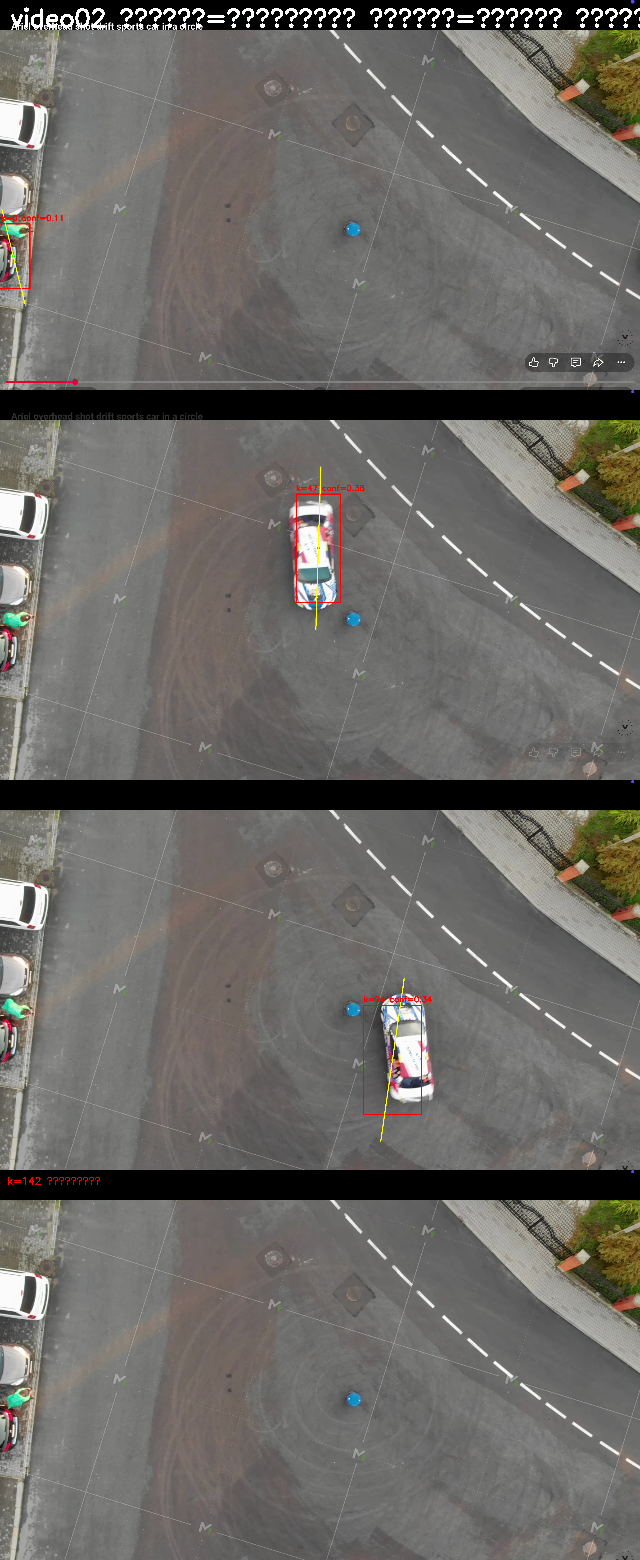
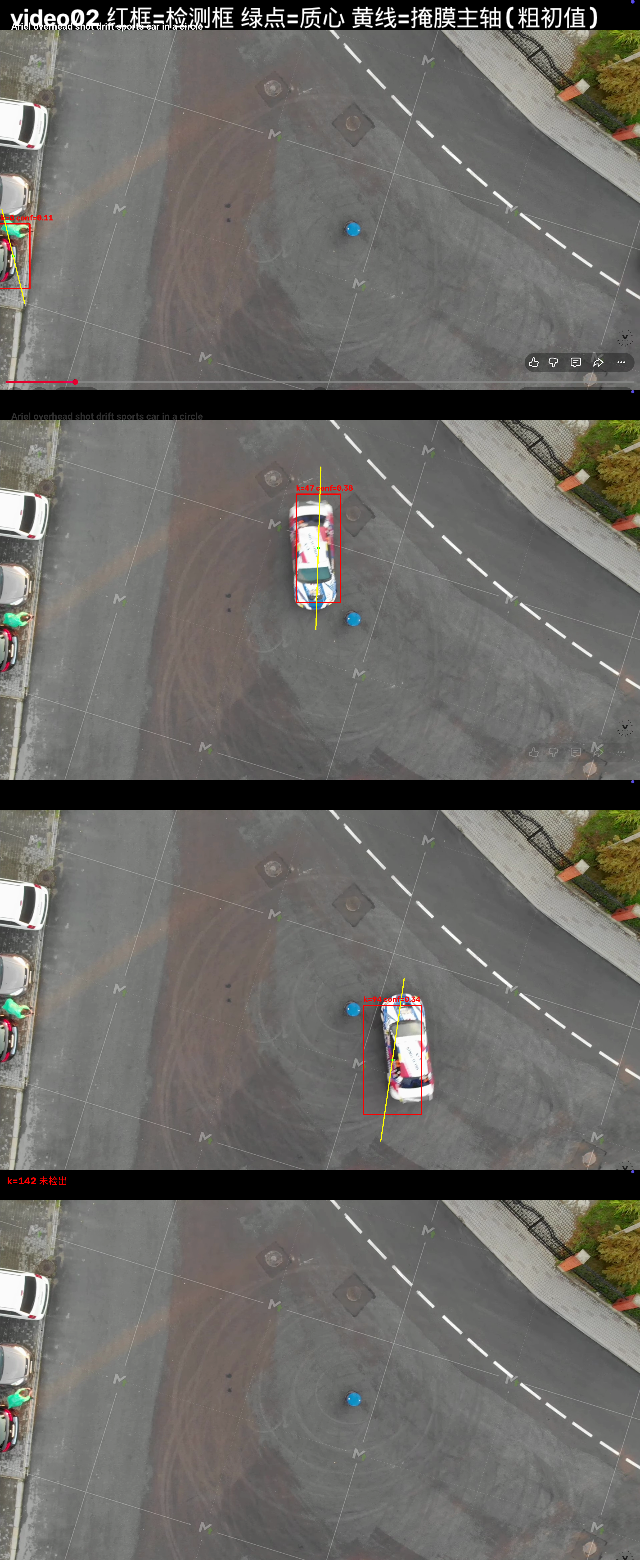
feat(L4): video09 试标完成；修复试标暴露的轴来源、轴残差与报告范围问题
- pipeline 改用 load_annotation_detail 并传 annotated 掩膜，axis_src 不再全落成 interp
- plot_kinematics 标题按实际轴来源生成，β 面板单独标出人工帧
- 报告的轴离散列改为「去掉平滑趋势后的残差」（普通/圆 std 都被真实转动主导）
- 局部运行改写到 M1_报告_局部.md，不再覆盖全量报告；素材缺失在报告 §7 列出
- 记录 PCA 基线与人工标注的系统性偏差：Δβ 中位 +7.15°、方向一致

Changed region(s): [[0.0312, 0.0, 1.0, 0.0308]]

diff --git a/src/pipeline.py b/src/pipeline.py
@@ -51,8 +51,18 @@ def _setup_matplotlib():
 def plot_kinematics(name: str, res: P.PreprocessResult, kin: dict, path: Path) -> None:
     plt = _setup_matplotlib()
     fig, axes = plt.subplots(2, 2, figsize=(13, 9))
-    fig.suptitle(f"{name}  运动学曲线（背景建模分支，无人工标注）", fontsize=13)
     t = np.array(res.t)
+
+    # 轴来源逐帧不同，图上的说法必须跟着实际来源走，
+    # 不能写死成「无人工标注 / PCA 基线」—— 否则标完的素材会被误读成占位结果。
+    kind = np.asarray(kin.get("axis_kind", np.zeros(res.n, dtype=int)))
+    n_ann = int((kind == 1).sum())
+    n_int = int((kind == 2).sum())
+    if n_ann or n_int:
+        src_txt = f"车身轴：人工标注 {n_ann} 帧 + 插值 {n_int} 帧"
+    else:
+        src_txt = "车身轴：掩膜 PCA 基线（占位，非结果）"
+    fig.suptitle(f"{name}  运动学曲线（背景建模分支，{src_txt}）", fontsize=13)
 
     ax = axes[0][0]
     sc = ax.scatter(kin["cx"], kin["cy"], c=t, s=6, cmap="viridis")
@@ -87,11 +97,19 @@ def plot_kinematics(name: str, res: P.PreprocessResult, kin: dict, path: Path) -
 
     ax = axes[1][1]
     ax.axhline(0, color="gray", lw=0.8, ls="--")
-    ax.plot(t, kin["beta"], lw=1.2, color="#993C1D")
+    beta = np.asarray(kin["beta"], dtype=float)
+    ax.plot(t, beta, lw=1.2, color="#993C1D", label="β 曲线")
+    # 人工标的帧单独点出来：插值段是「匀速转动」假设推出来的，不能和目视观测平权
+    if n_ann:
+        m = (kind == 1) & np.isfinite(beta)
+        ax.plot(t[m], beta[m], "o", ms=4.5, mfc="none", mec="#185FA5", mew=1.2,
+                ls="none", label=f"人工标注帧（{int(m.sum())}）")
+        ax.legend(fontsize=9, loc="best")
     ax.set_xlabel("t / s")
     ax.set_ylabel("β / 度")
     ax.set_ylim(-90, 90)
-    ax.set_title("滑移角 β（车身轴用掩膜 PCA 基线，噪声大，仅供占位）", fontsize=11)
+    ax.set_title("滑移角 β" + ("" if n_ann else "（车身轴用掩膜 PCA 基线，噪声大，仅供占位）"),
+                 fontsize=11)
     ax.grid(alpha=0.25)
 
     fig.tight_layout()
@@ -178,10 +196,17 @@ def process_one(spec: C.VideoSpec, stage: str = "all", force: bool = False,
     if stage == "detect":
         return rec
 
-    body = K.load_annotation(spec.name, res.n)
-    kin = K.compute(dets, res, body_axis=body)
+    # 必须用 load_annotation_detail 并把 annotated 掩膜一起传下去：
+    # 只传角度序列的话 compute() 无从区分「人工标的」和「插值补的」，
+    # axis_kind 会全部落成 2（插值），CSV 的 axis_src 列就成了假审计。
+    ann = K.load_annotation_detail(spec.name, res.n)
+    body = ann["axis"] if ann else None
+    bmask = ann["annotated"] if ann else None
+    kin = K.compute(dets, res, body_axis=body, body_mask=bmask)
     rec["kin"] = kin
-    rec["annotated"] = body is not None
+    rec["annotated"] = ann is not None
+    rec["annot_count"] = ann["count"] if ann else 0
+    rec["axis_stats"] = K.annotate_stats(kin)
 
     K.write_series_csv(C.TRACK_DIR / f"{spec.name}.csv", res, kin)
     if kin["s"]["covered"] >= 5:
@@ -193,8 +218,18 @@ def process_one(spec: C.VideoSpec, stage: str = "all", force: bool = False,
 # ---------------------------------------------------------------------------
 # 汇总报告
 # ---------------------------------------------------------------------------
-def write_report(records: list[dict]) -> Path:
+def write_report(records: list[dict], partial: bool = False,
+                 missing: list[tuple[str, str]] | None = None) -> Path:
     lines = ["# M1 阶段报告：预处理 + 双分支检测 + 运动方向", ""]
+    if partial:
+        # 跑单个素材时如果照原样写回 M1_报告.md，会把全量汇总冲成只有一行，
+        # 下次打开的人会以为其它素材消失了。局部结果单独成文并显式声明范围。
+        names = "、".join(f"`{r['name']}`" for r in records)
+        lines.append(f"> ⚠ **本报告只覆盖 {len(records)} 段素材（{names}），是局部运行的结果，"
+                     "不是全量汇总。**")
+        lines.append("> 全量报告请跑 `python -m src.pipeline --all-static`；"
+                     "本次结果写在本文件以免覆盖它。")
+        lines.append("")
     lines.append("由 `python -m src.pipeline` 自动生成。本阶段**不需要任何人工标注**，")
     lines.append("产出的是速度与航向曲线，用来先暴露素材本身的跟踪与比例尺问题。")
     lines.append("")
@@ -254,26 +289,46 @@ def write_report(records: list[dict]) -> Path:
 
     lines.append("## 3. 逐素材运动学摘要")
     lines.append("")
-    lines.append("| 素材 | 有效段 | 内部最大缺口 | 位置离群剔除 | 速度 中位/p90 (px/s) | 航向覆盖 | 主轴 std | 标注 |")
+    lines.append("| 素材 | 有效段 | 内部最大缺口 | 位置离群剔除 | 速度 中位/p90 (px/s) | 航向覆盖 | 轴残差 | 标注 |")
     lines.append("|---|---|---|---|---|---|---|---|")
-    for r in records:
-        kin = r.get("kin")
+    for rec in records:
+        kin = rec.get("kin")
         if not kin:
             continue
         s = kin["s"]
         sp = kin["speed"][~np.isnan(kin["speed"])]
-        ax = kin["axis"][~np.isnan(kin["axis"])]
         sp_s = f"{np.median(sp):.0f} / {np.percentile(sp, 90):.0f}" if len(sp) else "-"
-        ax_s = f"{np.std(ax):.0f}°" if len(ax) else "-"
+        # 车身轴在整段里会真实转过几十度，普通 std / 圆 std 都被真实转动主导，
+        # 测不出噪声。用"去掉平滑趋势后的残差散布"才能把 PCA 基线与人工标注拉开。
+        resid = K.axis_residual_std(kin["axis"], kin["dt"])
+        ax_s = f"{resid:.1f}°" if resid is not None else "-"
         span = f"k {s['valid_from']}~{s['valid_to']}"
-        out_s = (f"{kin['n_outliers']}（{kin['n_outliers'] / max(1, r.get('n_det', 1)) * 100:.0f}%）"
+        out_s = (f"{kin['n_outliers']}（{kin['n_outliers'] / max(1, rec.get('n_det', 1)) * 100:.0f}%）"
                  if kin.get("n_outliers") else "0")
-        lines.append(f"| {r['name']} | {span} | {s['max_gap']} 帧 | {out_s} | {sp_s} | "
-                     f"{s['covered']}/{s['n']} | {ax_s} | "
-                     f"{'有' if r.get('annotated') else '无（用 PCA 基线）'} |")
+        st = rec.get("axis_stats") or {}
+        if st.get("annotated"):
+            ann_s = f"{rec.get('annot_count', 0)} 帧人工"
+            if st.get("interp"):
+                ann_s += f" + {st['interp']} 插值"
+        else:
+            ann_s = "无（用 PCA 基线）"
+        lines.append(f"| {rec['name']} | {span} | {s['max_gap']} 帧 | {out_s} | {sp_s} | "
+                     f"{s['covered']}/{s['n']} | {ax_s} | {ann_s} |")
     lines.append("")
     lines.append("> 「位置离群剔除」= 滑动窗口中值法判为偏离主轨迹、已置空并插值补回的帧数。"
                  "用于清掉车被画面边缘截断、掩膜临时并进阴影/杂物造成的假跳点。")
+    lines.append(">")
+    lines.append("> 「轴残差」= 车身轴**去掉平滑趋势后**的残差标准差（0.5 s 窗口，在倍角域做平滑）。"
+                 "**不能用普通 std 或圆 std 代替**：车身轴在一段素材里会真实转过几十度，"
+                 "那两种度量都被真实转动主导 —— 实测 video09 的 PCA 基线与人工标注圆 std "
+                 "是 12.1° vs 11.8°（几乎一样），但两者的 β 中位相差 7.15° 且方向一致，"
+                 "是**系统性偏差**而非随机噪声。")
+    lines.append(">")
+    lines.append("> 该列只量「抖动」：video09 标注前的 PCA 基线为 3.8°，标注后为 1.6°。"
+                 "拆开看，**人工帧残差 1.83°**（≈ 目视点两下的精度），"
+                 "插值帧仅 0.13° —— 但插值段平滑是**按构造成立**的（倍角线性插值本身连续），"
+                 "**不能反过来当作「插值很准」的证据**。所以该列衡量的是「轴序列抖不抖」，"
+                 "不等于人工点选精度，更不等于 β 的精度。")
     lines.append("")
 
     lines.append("## 4. 已知局限（M1 未解决）")
@@ -294,7 +349,13 @@ def write_report(records: list[dict]) -> Path:
     lines.append("")
     lines.append("## 5. 需要人工介入的事")
     lines.append("")
-    lines.append("1. **车身朝向 ψ_body 必须人工标注。** 本阶段的 β 曲线用的是掩膜 PCA 主轴，")
+    done = [r for r in records if r.get("annot_count")]
+    if done:
+        lines.append("标注进度：" + "、".join(
+            f"`{r['name']}` {r['annot_count']} 帧" for r in done)
+            + "（逐帧来源见上表「标注」列与 `outputs/tracks/<素材名>.csv` 的 `axis_src`）。")
+        lines.append("")
+    lines.append("1. **车身朝向 ψ_body 必须人工标注。** 尚未标注的素材，其 β 曲线用的是掩膜 PCA 主轴，")
     lines.append("   而车辆阴影会并进掩膜，使主轴标准差普遍偏大，**不可当结果使用**。")
     lines.append("   标注文件格式见 `outputs/annotations/README.md`。")
     lines.append("2. **比例尺尚未标定。** 速度目前是 px/s。要换算成 m/s，需要地面已知尺寸"
@@ -308,7 +369,18 @@ def write_report(records: list[dict]) -> Path:
         ws = r["preprocess"].warnings
         if ws:
             lines.append(f"- **{r['name']}**：" + "；".join(ws))
-    path = C.REPORT_DIR / "M1_报告.md"
+    lines.append("")
+    if missing:
+        lines.append("## 7. 本次未跑到的素材")
+        lines.append("")
+        lines.append("以下素材在本次运行时**源文件不在 `drift/`**，表中因此没有它们的行。")
+        lines.append("它们此前生成的 `outputs/tracks/*.csv` 与曲线图仍在磁盘上，"
+                     "但**可能已与最新代码不一致**，不要当作本次结果引用。")
+        lines.append("")
+        for n, why in missing:
+            lines.append(f"- **{n}**：{why}")
+        lines.append("")
+    path = C.REPORT_DIR / ("M1_报告_局部.md" if partial else "M1_报告.md")
     path.write_text("\n".join(lines) + "\n", encoding="utf-8")
     return path
 
@@ -373,10 +445,17 @@ def main(argv: list[str] | None = None) -> int:
     print(f"处理 {len(specs)} 段素材，阶段：{args.stage}")
     print("=" * 100)
     records = []
+    missing = []
     for spec in specs:
         print(f"\n[{spec.name}] role={spec.role} 分支={spec.detector}")
         try:
             rec = process_one(spec, stage=args.stage, force=args.force, verbose=args.verbose)
+        except FileNotFoundError as e:
+            # 素材文件不在（改名/误删）时别静默跳过：报告里要留下痕迹，
+            # 否则表格少一行没人会发现，旧产物还会被误当成最新结果。
+            print(f"  [缺失] {e}")
+            missing.append((spec.name, str(e)))
+            continue
         except Exception as e:
             print(f"  失败：{type(e).__name__}: {e}")
             continue
@@ -401,8 +480,12 @@ def main(argv: list[str] | None = None) -> int:
                           f"（{np.median(sp) / kin['size_px']:.2f} 车长/秒）")
 
     if records and args.stage == "all":
-        rp = write_report(records)
-        print(f"\n汇总报告：{rp.relative_to(C.ROOT)}")
+        full = {s.name for s in C.active_static_videos()}
+        partial = {s.name for s in specs} != full
+        rp = write_report(records, partial=partial, missing=missing)
+        print(f"\n汇总报告：{rp.relative_to(C.ROOT)}" + ("（局部，未覆盖全量报告）" if partial else ""))
+        if missing:
+            print("未跑到的素材：" + "、".join(n for n, _ in missing))
     return 0
 
 

diff --git a/src/kinematics.py b/src/kinematics.py
@@ -118,6 +118,42 @@ def _interp_inplace(values: np.ndarray) -> np.ndarray:
     return out
 
 
+AXIS_RESID_WIN_S = 0.5
+
+
+def axis_residual_std(axis: np.ndarray, dt: float,
+                      win_s: float = AXIS_RESID_WIN_S) -> float | None:
+    """车身轴"抖不抖"：去掉平滑趋势后的残差散布（度）。
+
+    为什么不用普通 std，也不用倍角圆 std：车身轴在整段素材里会**真实转过几十度**
+    （video09 约 39°），这两种度量都被真实转动主导，测不出噪声。
+    实测 video09 的 PCA 基线与人工标注的圆 std 是 12.1° vs 11.8° —— 几乎一样，
+    但两者的 β 中位相差 7.15°、且**单向**（基线系统性高估 |β|）。
+    所以"抖不抖"必须先把趋势减掉再量。
+
+    做法：在倍角域（2θ 的 cos/sin）做滑动平均得到趋势（这样 0/180 接缝不会
+    把均值拉成 90°），再看逐帧偏离趋势多少。
+
+    实测（窗口 0.5 s，video09）：PCA 基线 3.8°，人工标注 1.6°。
+    """
+    a = np.asarray(axis, dtype=float)
+    m = np.isfinite(a)
+    if m.sum() < 5:
+        return None
+    win = max(5, int(round(win_s / dt)) | 1)
+    if win > m.sum():
+        win = m.sum() | 1
+    k = np.ones(win) / win
+    w = np.convolve(m.astype(float), k, "same")
+    z = np.radians(2.0 * a)
+    u = np.convolve(np.where(m, np.cos(z), 0.0), k, "same") / np.maximum(w, 1e-9)
+    v = np.convolve(np.where(m, np.sin(z), 0.0), k, "same") / np.maximum(w, 1e-9)
+    trend = np.degrees(np.arctan2(v, u)) / 2.0
+    r = (a - trend) % C.BODY_AXIS_MOD
+    r = np.where(r > 90.0, r - 180.0, r)
+    return float(np.std(r[m]))
+
+
 def reject_pose_outliers(x: np.ndarray, y: np.ndarray,
                          radius: int = 5, sigma: float = 4.0,
                          floor_frac: float = 0.03,

diff --git a/outputs/reports/M1_报告.md b/outputs/reports/M1_报告.md
@@ -10,11 +10,9 @@
 | video01 | 2704×1756 | 272 | 77 | 71.7% | 4.5s | 0.17% | 77 | 100% | 123×156 | 0 |
 | video02 | 2704×1756 | 390 | 143 | 63.3% | 6.8s | 0.46% | 139 | 97% | 201×194 | 4 |
 | video03 | 2704×1756 | 525 | 258 | 50.9% | 8.8s | 0.32% | 258 | 100% | 494×256 | 0 |
-| video07 | 1920×1080 | 42 | 38 | 9.5% | 1.6s | 0.04% | 38 | 100% | 26×48 | 0 |
 | video08 | 1920×1080 | 92 | 83 | 9.8% | 3.6s | 0.03% | 83 | 100% | 48×29 | 0 |
 | video09 | 1920×1080 | 33 | 30 | 9.1% | 1.3s | 0.21% | 30 | 100% | 159×102 | 0 |
 | video12 | 1920×1080 | 415 | 286 | 31.1% | 16.5s | 4.20% | 265 | 93% | 296×139 | 21 |
-| video15 | 1920×1080 | 101 | 98 | 3.0% | 4.0s | 0.45% | 96 | 98% | 163×153 | 2 |
 
 > 「覆盖率」= 检出帧数 / 去重后唯一帧数。「背景残留」= 中值背景扣掉车辆后仍剩的差异像素占比，阈值 3%；超过即判为相机在动。
 
@@ -32,18 +30,20 @@
 
 ## 3. 逐素材运动学摘要
 
-| 素材 | 有效段 | 内部最大缺口 | 位置离群剔除 | 速度 中位/p90 (px/s) | 航向覆盖 | 主轴 std | 标注 |
+| 素材 | 有效段 | 内部最大缺口 | 位置离群剔除 | 速度 中位/p90 (px/s) | 航向覆盖 | 轴残差 | 标注 |
 |---|---|---|---|---|---|---|---|
-| video01 | k 0~76 | 0 帧 | 1（1%） | 301 / 435 | 77/77 | 47° | 无（用 PCA 基线） |
-| video02 | k 0~140 | 2 帧 | 2（1%） | 243 / 390 | 139/143 | 51° | 无（用 PCA 基线） |
-| video03 | k 0~257 | 0 帧 | 0 | 179 / 236 | 258/258 | 73° | 无（用 PCA 基线） |
-| video07 | k 0~37 | 0 帧 | 0 | 60 / 70 | 38/38 | 4° | 无（用 PCA 基线） |
-| video08 | k 0~82 | 0 帧 | 0 | 71 / 88 | 83/83 | 66° | 无（用 PCA 基线） |
-| video09 | k 0~29 | 0 帧 | 2（7%） | 336 / 451 | 30/30 | 80° | 无（用 PCA 基线） |
-| video12 | k 0~285 | 4 帧 | 8（3%） | 56 / 775 | 265/286 | 75° | 无（用 PCA 基线） |
-| video15 | k 1~97 | 1 帧 | 12（12%） | 140 / 215 | 96/98 | 26° | 无（用 PCA 基线） |
+| video01 | k 0~76 | 0 帧 | 1（1%） | 301 / 435 | 77/77 | 4.5° | 无（用 PCA 基线） |
+| video02 | k 0~140 | 2 帧 | 2（1%） | 243 / 390 | 139/143 | 4.3° | 无（用 PCA 基线） |
+| video03 | k 0~257 | 0 帧 | 0 | 179 / 236 | 258/258 | 2.8° | 无（用 PCA 基线） |
+| video08 | k 0~82 | 0 帧 | 0 | 71 / 88 | 83/83 | 1.6° | 无（用 PCA 基线） |
+| video09 | k 0~29 | 0 帧 | 2（7%） | 336 / 451 | 30/30 | 1.6° | 20 帧人工 + 8 插值 |
+| video12 | k 0~285 | 4 帧 | 8（3%） | 56 / 775 | 265/286 | 6.2° | 无（用 PCA 基线） |
 
 > 「位置离群剔除」= 滑动窗口中值法判为偏离主轨迹、已置空并插值补回的帧数。用于清掉车被画面边缘截断、掩膜临时并进阴影/杂物造成的假跳点。
+>
+> 「轴残差」= 车身轴**去掉平滑趋势后**的残差标准差（0.5 s 窗口，在倍角域做平滑）。**不能用普通 std 或圆 std 代替**：车身轴在一段素材里会真实转过几十度，那两种度量都被真实转动主导 —— 实测 video09 的 PCA 基线与人工标注圆 std 是 12.1° vs 11.8°（几乎一样），但两者的 β 中位相差 7.15° 且方向一致，是**系统性偏差**而非随机噪声。
+>
+> 该列只量「抖动」：video09 标注前的 PCA 基线为 3.8°，标注后为 1.6°。拆开看，**人工帧残差 1.83°**（≈ 目视点两下的精度），插值帧仅 0.13° —— 但插值段平滑是**按构造成立**的（倍角线性插值本身连续），**不能反过来当作「插值很准」的证据**。所以该列衡量的是「轴序列抖不抖」，不等于人工点选精度，更不等于 β 的精度。
 
 ## 4. 已知局限（M1 未解决）
 
@@ -60,7 +60,9 @@
 
 ## 5. 需要人工介入的事
 
-1. **车身朝向 ψ_body 必须人工标注。** 本阶段的 β 曲线用的是掩膜 PCA 主轴，
+标注进度：`video09` 20 帧（逐帧来源见上表「标注」列与 `outputs/tracks/<素材名>.csv` 的 `axis_src`）。
+
+1. **车身朝向 ψ_body 必须人工标注。** 尚未标注的素材，其 β 曲线用的是掩膜 PCA 主轴，
    而车辆阴影会并进掩膜，使主轴标准差普遍偏大，**不可当结果使用**。
    标注文件格式见 `outputs/annotations/README.md`。
 2. **比例尺尚未标定。** 速度目前是 px/s。要换算成 m/s，需要地面已知尺寸（例如 video03 的靶心圆、video13/14 的轮胎痕圆环）。
@@ -72,4 +74,12 @@
 - **video02**：重复帧比例 63.3%，有效时长被压缩到 6.8s，样本量受限；裁掉黑边 (1, 25, 1, 84)
 - **video03**：重复帧比例 50.9%，有效时长被压缩到 8.8s，样本量受限；裁掉黑边 (1, 25, 1, 84)
 - **video12**：背景模型残留差异 4.20%，超过 3% 阈值，与登记的静止机位不符，请复核；重复帧比例 31.1%，有效时长被压缩到 16.5s，样本量受限
-- **video15**：裁掉黑边 (0, 36, 0, 56)
+
+## 7. 本次未跑到的素材
+
+以下素材在本次运行时**源文件不在 `drift/`**，表中因此没有它们的行。
+它们此前生成的 `outputs/tracks/*.csv` 与曲线图仍在磁盘上，但**可能已与最新代码不一致**，不要当作本次结果引用。
+
+- **video07**：找不到素材文件：video07.mov / .mp4
+- **video15**：找不到素材文件：video15.mov / .mp4
+

diff --git a/.workbuddy/memory/2026-09-23.md b/.workbuddy/memory/2026-09-23.md
@@ -137,5 +137,20 @@ CSV 列齐、覆盖物无越界、0 JS 异常。
 - `outputs/annotations/queue/*.csv` 与 `<名>.csv` 入库；
   `crops/`（约 40MB）与 `web/`（自包含 HTML）**不入库**，可由代码再生成。
 
+## 收尾复测（commit 7e172b7）
+
+标注链路提交后再走一遍冒烟，确认可用并修掉一处小瑕疵：
+
+- **队列文件前两行是 `#` 注释**，所以 `wc -l queue/*.csv` 会比实际帧数多 6+6 行。
+  别用行数当帧数核账，`--status` 报的 230 才是准的（25+50+45+20+55+35）。
+- 空集写盘会留下"只有表头"的 CSV → 改为 `write_labels` 在 `labels` 为空时
+  `unlink` 文件（连 `.csv.tmp` 一起清），语义变成"无标注 == 无文件"。
+- 复测通过：服务 `/` 200、`/api/payload` 25 帧、保存/覆盖（同 k 改角度条数不变）、
+  删除、导出 standalone（20 张 base64 内嵌、无占位符残留、1.35MB）。
+- **本机环境**：项目无 venv，用 `/opt/anaconda3/bin/python3`（cv2 5.0.0 / np 2.4.6 / scipy 1.18.0）。
+  所有 `python -m src.xxx` 都用这个绝对路径。
+- 沙箱里 Bash 调用结束后后台进程会被回收，`nohup ... &` 也活不过一次调用 →
+  要跨调用试服务接口，得把"起服务 + curl + kill"写进同一条命令。
+
 
 
